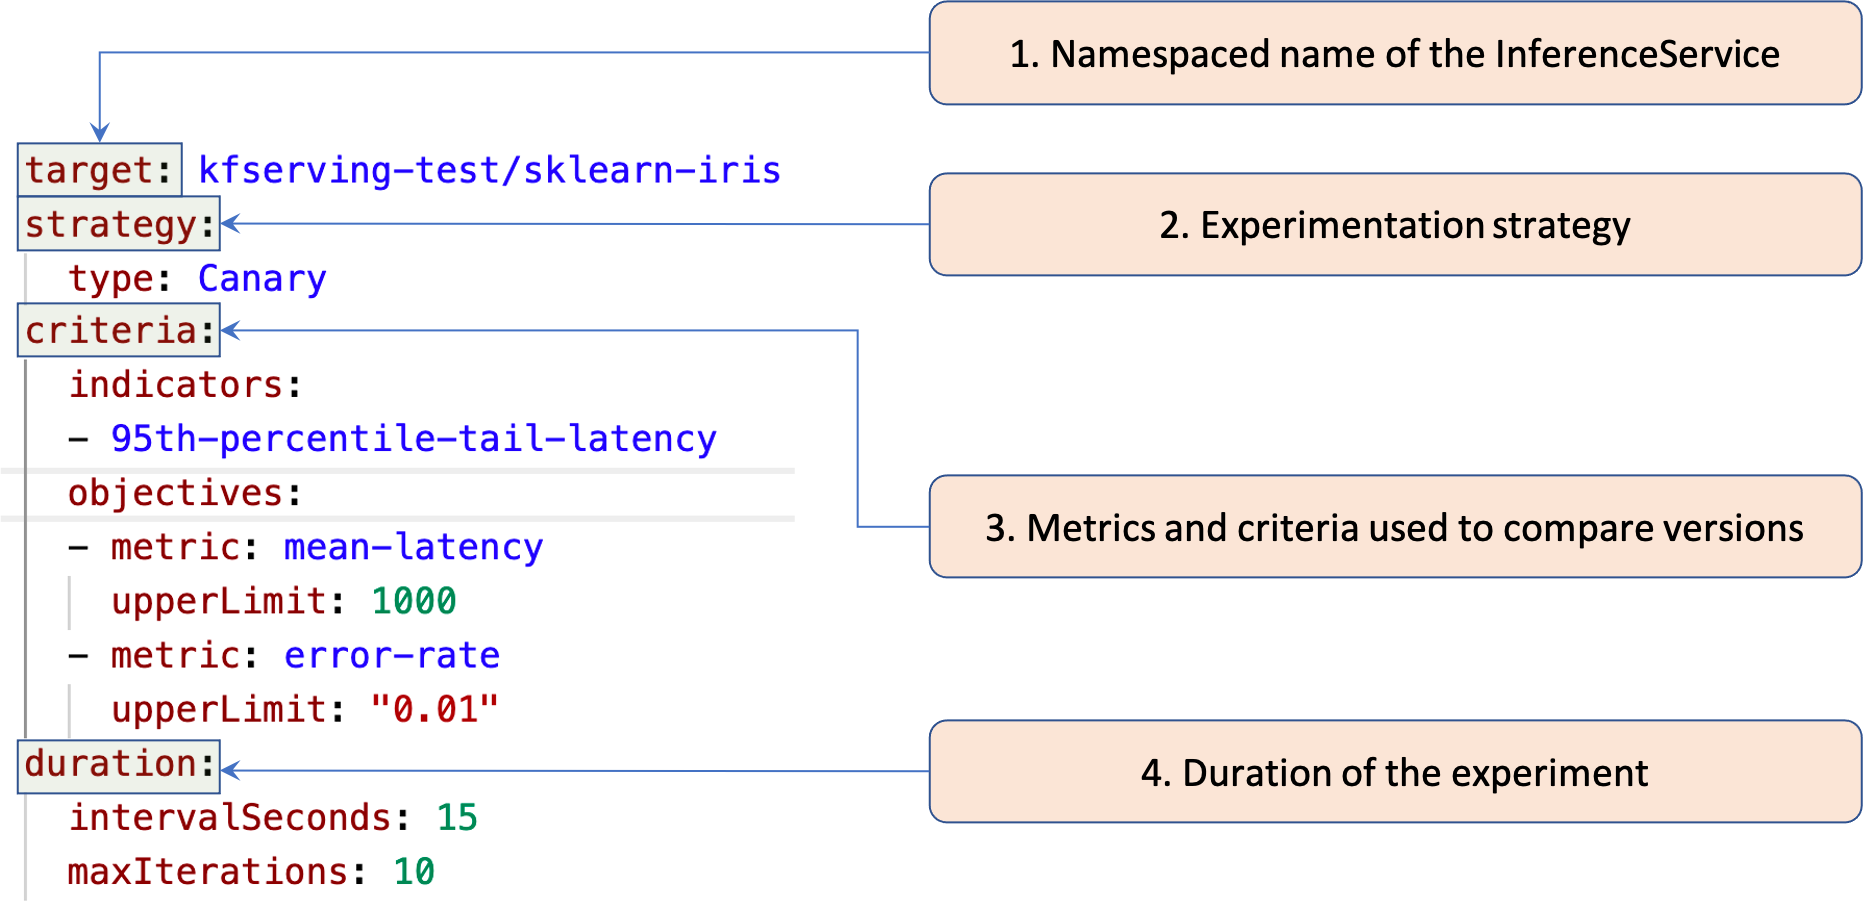
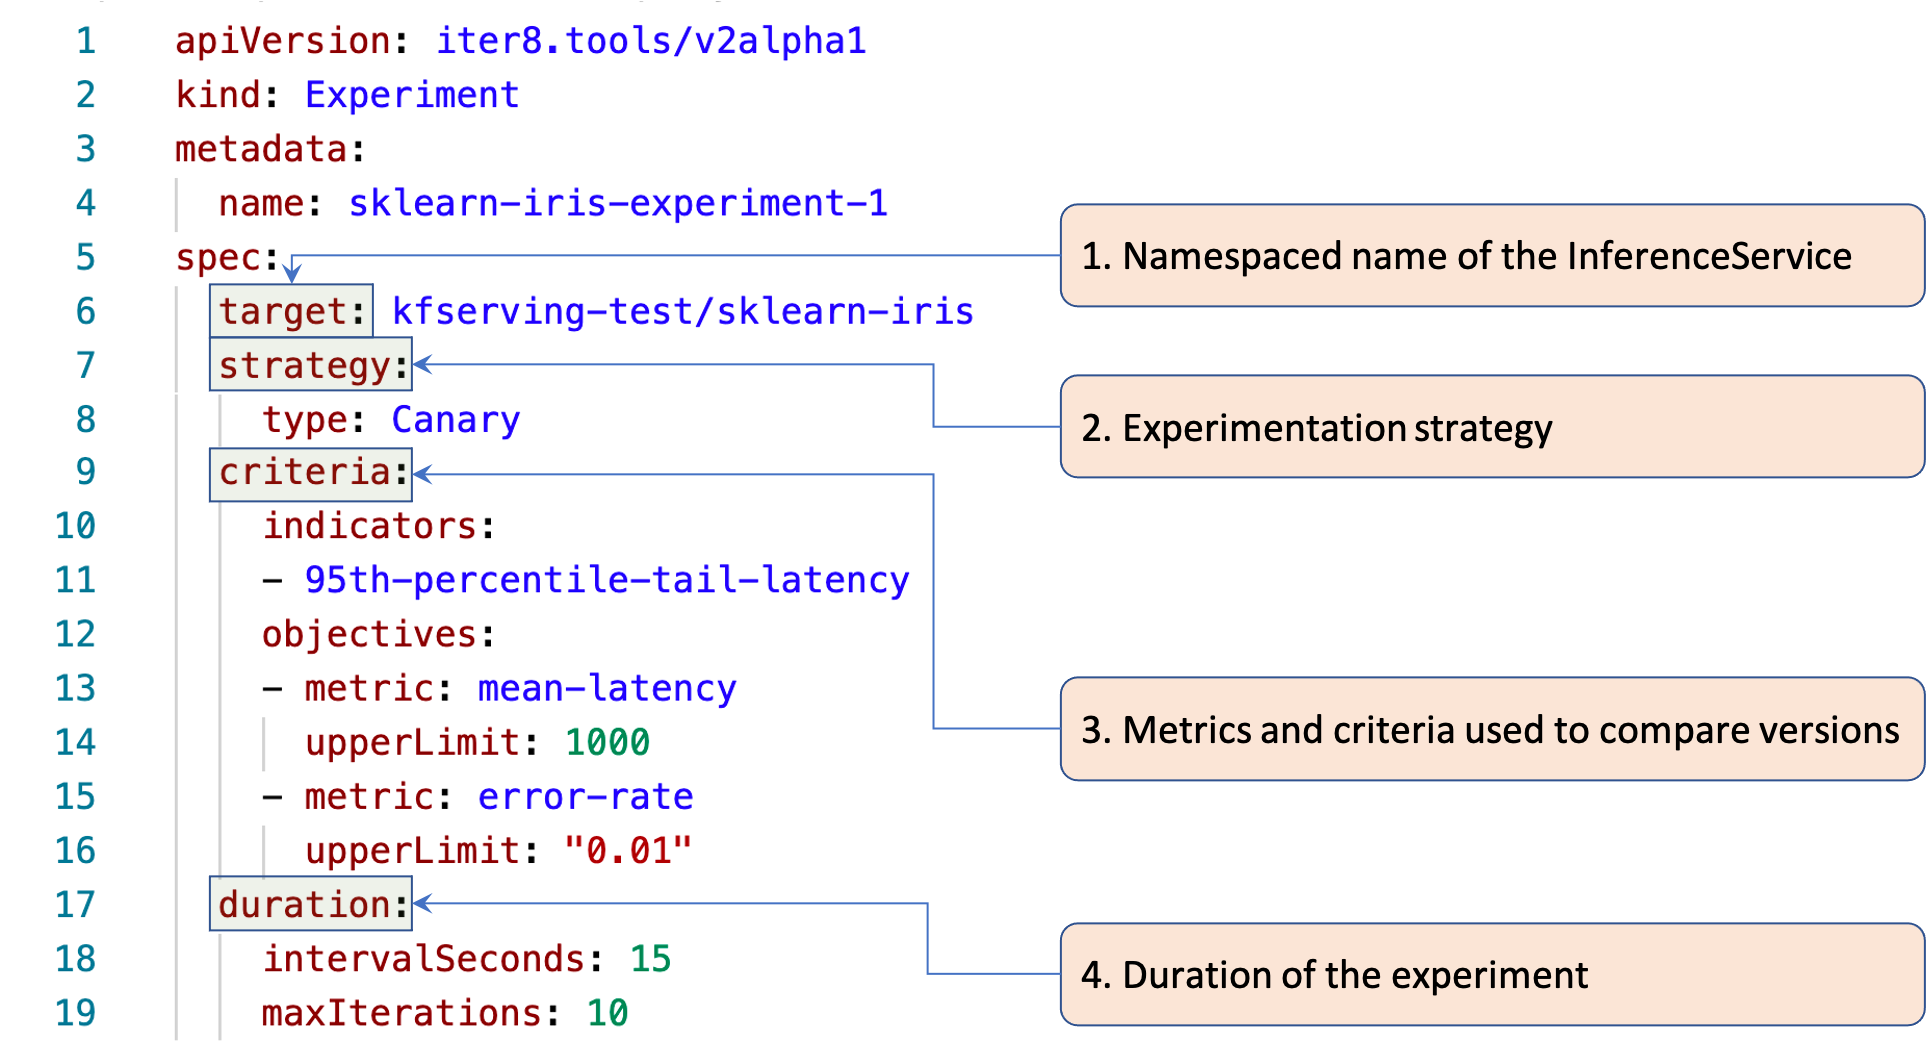
modified anatomy (#68)
* modified anatomy

* canary

* headings

* canary

* anatomy

* iter8 experiment

* canary

* example

* rules

* see anatomy

* canary cleanup

* under the hood changes

* under the hood more changes

diff --git a/docs/canary.md b/docs/canary.md
@@ -1,21 +1,25 @@
-## Progressive Canary Rollout
+## Progressive Canary Release Experiment
 
-- [Winning Version](#winning-version)
-- [Example](#example)
+> Canary release is a technique to reduce the risk of introducing a new software version in production by slowly rolling out the change to a small subset of users before rolling it out to the entire infrastructure and making it available to everybody.
+> - Danilo Sato, https://martinfowler.com/bliki/CanaryRelease.html
+
+We describe how iter8 identifies the `winner` in a canary release experiment, how traffic is shifted, and illustrate canary release experiment with an example. For a basic overview of an iter8 experiment, see [anatomy of an iter8 experiment](anatomy.md).
 
 ### Winning Version
 
-Iter8 uses the following rules while identifying a `winner` (see [anatomy of an experiment](anatomy.md)).
+Iter8 uses the following rules while identifying the `winner` in a canary release experiment.
 
 1. If `canary` satisfies all `objectives`, then `canary` is the winner.
-2. If `default` satisfies all `objectives` and the `canary` does not, then `default` is the winner.
+2. If `default` satisfies all `objectives` and `canary` does not, then `default` is the winner.
 3. If neither versions satisfy all `objectives`, then there is no winner.
 
-The typical behavior in a progressive canary rollout experiment is as follows. All traffic flows to `default` at the start of the experiment. If `canary` is the winner, traffic progressively shifts towards `canary` during the experiment; `canary` is promoted at the end of the experiment, and all traffic flows to `canary`. When `default` is the winner or when there is no winner, traffic is mostly concentrated on `default` during the experiment; there is a `rollback` at the end of the experiment and `canary` is removed.
+### Traffic Shifting
+
+The typical traffic shifting during canary release is as follows. All traffic flows to `default` at the start of the experiment. If `canary` is the winner, traffic progressively shifts towards `canary` during the experiment; `canary` is promoted at the end of the experiment, and all traffic flows to `canary`. When `default` is the winner or when there is no winner, traffic is mostly concentrated on `default` during the experiment; there is a `rollback` at the end of the experiment and `canary` is removed.
 
 ### Example
 
-The following is an example of a progressive canary rollout experiment.
+The following is an example of a canary release experiment.
 
 ```yaml
 apiVersion: iter8.tools/v2alpha1

diff --git a/README.md b/README.md
@@ -8,8 +8,8 @@ The picture below illustrates progressive canary rollout of a KFServing model us
 ## Table of Contents
 - [Quick start on Minikube](#Quick-start-on-Minikube)
 - [Installation](./docs/installation.md)
-- [Anatomy of an experiment](./docs/anatomy.md)
-- [Progressive canary rollout](./docs/canary.md)
+- [Anatomy of an iter8 experiment](./docs/anatomy.md)
+- [Progressive canary release experiment](./docs/canary.md)
 - Metrics
   * Anatomy of a metric
   * Using metrics in an experiment

diff --git a/docs/anatomy.md b/docs/anatomy.md
@@ -1,4 +1,4 @@
-## Anatomy of an Experiment
+## Anatomy of an iter8 Experiment
 
 > In experiments such as Canary, A/B and A/B/n that involve two or more versions, iter8 identifies a `winner` based on the experiment criteria. Typically, traffic shifts progressively towards the winner during the experiment, and it is promoted at the end.
 

diff --git a/docs/underthehood.md b/docs/underthehood.md
@@ -2,7 +2,7 @@
 
 The following sequence diagram provides an overview of the various components involved in an iter8-kfserving experiment, and their interactions.
 
-![iter8-kfserving sequence diagram](images/iter8kfservingsequencediagram.png)
+![Under the hood](images/underthehood.png)
 
 ### Explanation of Concepts
 
